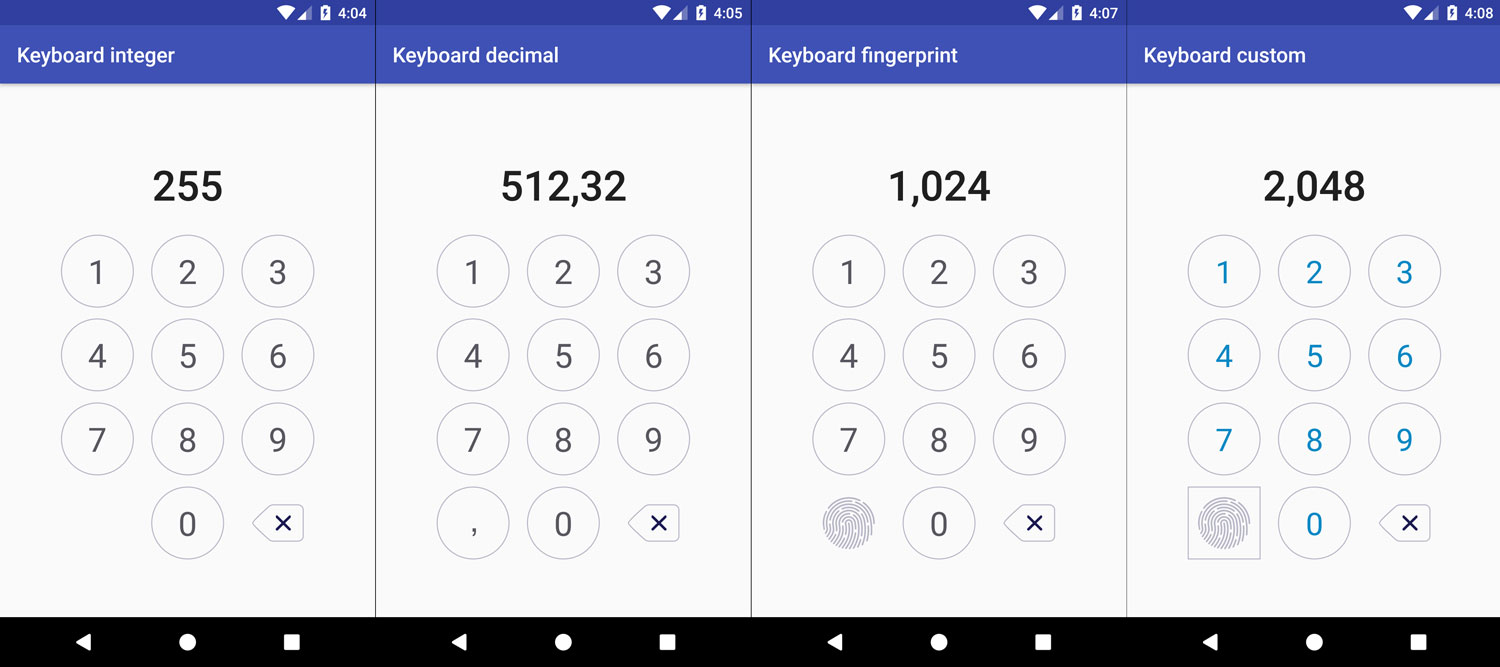
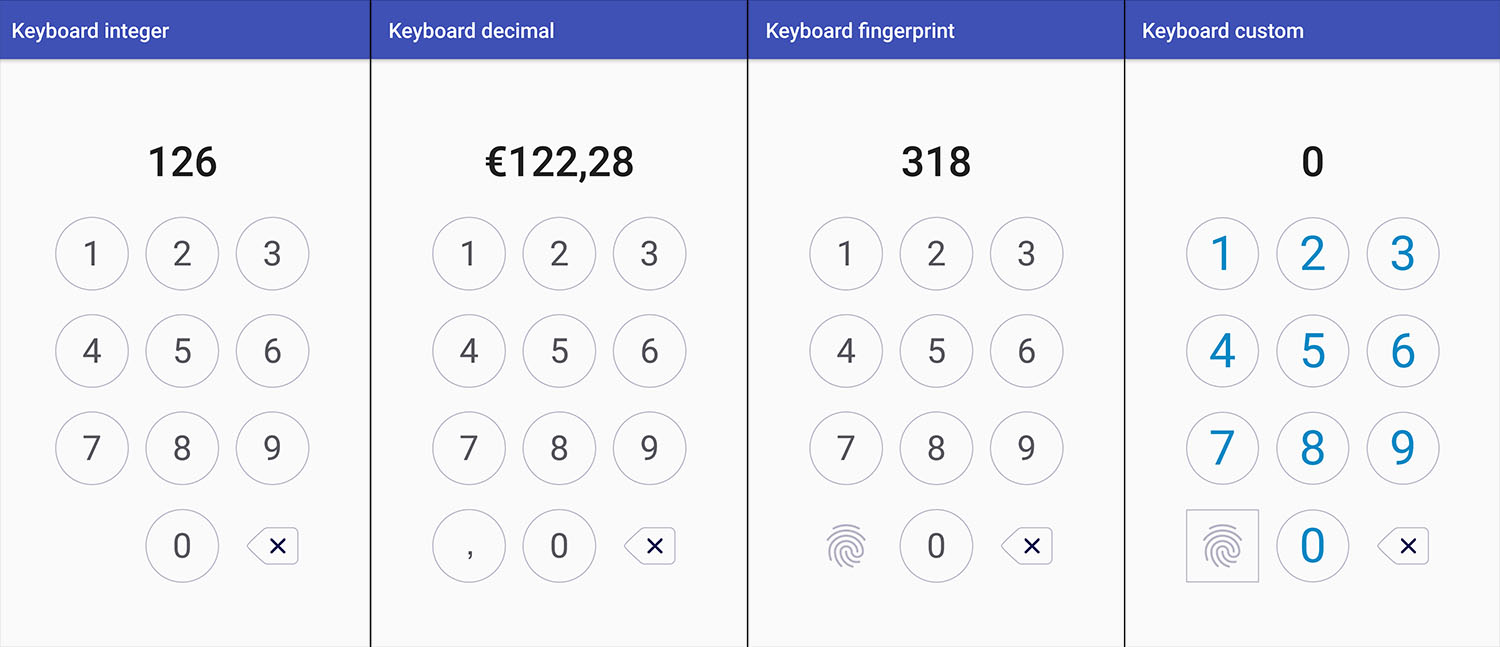
Use Autosizing TextViews #8

diff --git a/lib/src/main/java/com/davidmiguel/numberkeyboard/NumberKeyboard.java b/lib/src/main/java/com/davidmiguel/numberkeyboard/NumberKeyboard.java
@@ -27,9 +27,9 @@ import java.util.List;
 @SuppressWarnings("unused")
 public class NumberKeyboard extends GridLayout {
 
-    private static final int DEFAULT_KEY_WIDTH_DP = 70;
-    private static final int DEFAULT_KEY_HEIGHT_DP = 70;
-    private static final int DEFAULT_KEY_TEXT_SIZE_SP = 32;
+    private static final int DEFAULT_KEY_WIDTH_DP = -1; // match_parent
+    private static final int DEFAULT_KEY_HEIGHT_DP = -1; // match_parent
+    private static final int DEFAULT_KEY_PADDING_DP = 16;
 
     static {
         AppCompatDelegate.setCompatVectorFromResourcesEnabled(true);
@@ -39,10 +39,10 @@ public class NumberKeyboard extends GridLayout {
     private int keyWidth;
     @Dimension
     private int keyHeight;
+    @Dimension
+    private int keyPadding;
     @DrawableRes
     private int numberKeyBackground;
-    @Dimension
-    private int numberKeyTextSize;
     @ColorRes
     private int numberKeyTextColor;
     @DrawableRes
@@ -116,6 +116,9 @@ public class NumberKeyboard extends GridLayout {
      * Sets key width in px.
      */
     public void setKeyWidth(int px) {
+        if (px == DEFAULT_KEY_WIDTH_DP) {
+            return;
+        }
         for (TextView key : numericKeys) {
             key.getLayoutParams().width = px;
         }
@@ -128,6 +131,9 @@ public class NumberKeyboard extends GridLayout {
      * Sets key height in px.
      */
     public void setKeyHeight(int px) {
+        if (px == DEFAULT_KEY_HEIGHT_DP) {
+            return;
+        }
         for (TextView key : numericKeys) {
             key.getLayoutParams().height = px;
         }
@@ -137,20 +143,23 @@ public class NumberKeyboard extends GridLayout {
     }
 
     /**
+     * Sets key padding in px.
+     */
+    public void setKeyPadding(int px) {
+        for (TextView key : numericKeys) {
+            key.setPadding(px, px, px, px);
+            key.setCompoundDrawablePadding(-1 * px);
+        }
+        leftAuxBtn.setPadding(px, px, px, px);
+        rightAuxBtn.setPadding(px, px, px, px);
+    }
+
+    /**
      * Sets number keys background.
      */
     public void setNumberKeyBackground(@DrawableRes int background) {
         for (TextView key : numericKeys) {
             key.setBackground(ContextCompat.getDrawable(getContext(), background));
-        }
-    }
-
-    /**
-     * Sets number keys text size.
-     */
-    public void setNumberKeyTextSize(@Dimension int size) {
-        for (TextView key : numericKeys) {
-            key.setTextSize(TypedValue.COMPLEX_UNIT_PX, size);
         }
     }
 
@@ -213,16 +222,14 @@ public class NumberKeyboard extends GridLayout {
                 throw new IllegalArgumentException("keyboardType attribute is required.");
             }
             // Get key sizes
-            keyWidth = array.getLayoutDimension(R.styleable.NumberKeyboard_keyWidth,
-                    dpToPx(DEFAULT_KEY_WIDTH_DP));
-            keyHeight = array.getLayoutDimension(R.styleable.NumberKeyboard_keyHeight,
-                    dpToPx(DEFAULT_KEY_HEIGHT_DP));
+            keyWidth = array.getLayoutDimension(R.styleable.NumberKeyboard_keyWidth, DEFAULT_KEY_WIDTH_DP);
+            keyHeight = array.getLayoutDimension(R.styleable.NumberKeyboard_keyHeight, DEFAULT_KEY_HEIGHT_DP);
+            // Get key padding
+            keyPadding = array.getDimensionPixelSize(R.styleable.NumberKeyboard_keyPadding,
+                    dpToPx(DEFAULT_KEY_PADDING_DP));
             // Get number key background
             numberKeyBackground = array.getResourceId(R.styleable.NumberKeyboard_numberKeyBackground,
                     R.drawable.key_bg);
-            // Get number key text size
-            numberKeyTextSize = array.getDimensionPixelSize(R.styleable.NumberKeyboard_numberKeyTextSize,
-                    spToPx(DEFAULT_KEY_TEXT_SIZE_SP));
             // Get number key text color
             numberKeyTextColor = array.getResourceId(R.styleable.NumberKeyboard_numberKeyTextColor,
                     R.drawable.key_text_color);
@@ -299,8 +306,8 @@ public class NumberKeyboard extends GridLayout {
     private void setStyles() {
         setKeyWidth(keyWidth);
         setKeyHeight(keyHeight);
+        setKeyPadding(keyPadding);
         setNumberKeyBackground(numberKeyBackground);
-        setNumberKeyTextSize(numberKeyTextSize);
         setNumberKeyTextColor(numberKeyTextColor);
         setLeftAuxButtonIcon(leftAuxBtnIcon);
         setLeftAuxButtonBackground(leftAuxBtnBackground);
@@ -349,12 +356,5 @@ public class NumberKeyboard extends GridLayout {
      */
     public int dpToPx(float valueInDp) {
         return (int) TypedValue.applyDimension(TypedValue.COMPLEX_UNIT_DIP, valueInDp, getResources().getDisplayMetrics());
-    }
-
-    /**
-     * Utility method to convert sp to pixels.
-     */
-    public int spToPx(float valueInSp) {
-        return (int) TypedValue.applyDimension(TypedValue.COMPLEX_UNIT_SP, valueInSp, getResources().getDisplayMetrics());
     }
 }

diff --git a/lib/src/main/java/com/davidmiguel/numberkeyboard/SquareFrameLayout.java b/lib/src/main/java/com/davidmiguel/numberkeyboard/SquareFrameLayout.java
@@ -1,0 +1,70 @@
+/*
+ * Copyright (C) 2014 The Android Open Source Project
+ *
+ * Licensed under the Apache License, Version 2.0 (the "License");
+ * you may not use this file except in compliance with the License.
+ * You may obtain a copy of the License at
+ *
+ *      http://www.apache.org/licenses/LICENSE-2.0
+ *
+ * Unless required by applicable law or agreed to in writing, software
+ * distributed under the License is distributed on an "AS IS" BASIS,
+ * WITHOUT WARRANTIES OR CONDITIONS OF ANY KIND, either express or implied.
+ * See the License for the specific language governing permissions and
+ * limitations under the License.
+ */
+
+package com.davidmiguel.numberkeyboard;
+
+import android.content.Context;
+import android.util.AttributeSet;
+import android.widget.FrameLayout;
+
+/**
+ * {@link android.widget.FrameLayout} which forces itself to be laid out as square.
+ * https://developer.android.com/samples/ActivitySceneTransitionBasic/src/com.example.android.activityscenetransitionbasic/SquareFrameLayout.html#l26
+ */
+public class SquareFrameLayout extends FrameLayout {
+
+    public SquareFrameLayout(Context context) {
+        super(context);
+    }
+
+    public SquareFrameLayout(Context context, AttributeSet attrs) {
+        super(context, attrs);
+    }
+
+    public SquareFrameLayout(Context context, AttributeSet attrs, int defStyleAttr) {
+        super(context, attrs, defStyleAttr);
+    }
+
+    @Override
+    protected void onMeasure(int widthMeasureSpec, int heightMeasureSpec) {
+        final int widthSize = MeasureSpec.getSize(widthMeasureSpec);
+        final int heightSize = MeasureSpec.getSize(heightMeasureSpec);
+
+        if (widthSize == 0 && heightSize == 0) {
+            // If there are no constraints on size, let FrameLayout measure
+            super.onMeasure(widthMeasureSpec, heightMeasureSpec);
+
+            // Now use the smallest of the measured dimensions for both dimensions
+            final int minSize = Math.min(getMeasuredWidth(), getMeasuredHeight());
+            setMeasuredDimension(minSize, minSize);
+            return;
+        }
+
+        final int size;
+        if (widthSize == 0 || heightSize == 0) {
+            // If one of the dimensions has no restriction on size, set both dimensions to be the
+            // on that does
+            size = Math.max(widthSize, heightSize);
+        } else {
+            // Both dimensions have restrictions on size, set both dimensions to be the
+            // smallest of the two
+            size = Math.min(widthSize, heightSize);
+        }
+
+        final int newMeasureSpec = MeasureSpec.makeMeasureSpec(size, MeasureSpec.EXACTLY);
+        super.onMeasure(newMeasureSpec, newMeasureSpec);
+    }
+}

diff --git a/README.md b/README.md
@@ -25,9 +25,11 @@ Add the dependency:
 
 ```gradle
 dependencies {
-	compile 'com.github.davidmigloz:number-keyboard:1.0'
+	compile 'com.github.davidmigloz:number-keyboard:2.0'
 }
 ```
+
+[CHANGELOG](https://github.com/davidmigloz/number-keyboard/blob/master/CHANGELOG.md)
 
 #### Step 3
 
@@ -49,9 +51,10 @@ Use `NumberKeyboard` view in your layout:
   - `decimal`: numbers, comma and backspace keys.
   - `fingerprint`: numbers, fingerprint and backspace keys.
   - `custom`: numbers and defined auxiliary keys.
-- `keyboard:keyHeight="[dimension]"` (default: 70dp): key height.
+- `keyboard:keyWidth="[dimension]"` (default: `match_parent`): key width (`wrap_content` not allowed).      
+- `keyboard:keyHeight="[dimension]"` (default: `match_parent`): key height (`wrap_content` not allowed).
+- `keyboard:keyPadding="[dimension]"` (default: `16dp`): key padding.
 - `keyboard:numberKeyBackground="[reference]"` (default: circle): number keys background drawable.
-- `keyboard:numberKeyTextSize="[dimension]"` (default: 32sp): number keys text size.
 - `keyboard:numberKeyTextColor="[reference]"` (default: dark blue): number keys text color.
 - `keyboard:leftAuxBtnIcon="[reference]"` (default: none): if `keyboardType="custom"`, icon shown in left auxiliary button.
 - `keyboard:leftAuxBtnBackground="[reference]"` (default: none): if `keyboardType="custom"`, left auxiliary button background.
@@ -66,8 +69,8 @@ Use `NumberKeyboard` view in your layout:
 - `showRightAuxButton()`: shows right auxiliary button.
 - `setKeyWidth()`: sets key width in px.
 - `setKeyHeight()`: sets key height in px.
+- `setKeyPadding()`: sets key padding in px.
 - `setNumberKeyBackground()`: sets number keys background.
-- `setNumberKeyTextSize()`: sets number keys text size.
 - `setNumberKeyTextColor()`: sets number keys text color.
 - `setNumberKeyTypeface()`: sets number keys text typeface.
 - `setLeftAuxButtonIcon()`: sets left auxiliary button icon.
@@ -105,7 +108,7 @@ Pull request are very appreciated.
 
 ## License
 
-Copyright (c) 2017 David Miguel Lozano
+Copyright (c) 2018 David Miguel Lozano
 
 Licensed under the Apache License, Version 2.0 (the "License");
 you may not use this file except in compliance with the License.

diff --git a/CHANGELOG.md b/CHANGELOG.md
@@ -1,0 +1,31 @@
+# Change Log
+
+## Version 2.0  *(20/04/2018)*
+
+- Implement keys using Autosizing TextViews #8
+- Adding `keyPadding` attribute
+- Remove `numberKeyTextSize` attribute **(breaking change)**
+- Update support libraries to 27.1.1 #7
+- Update buildToolsVersion to 27.0.3 #7
+- Update gradle to 4.6 #7
+
+## Version 1.0  *(18/01/2018)*
+
+- Update support libraries to 27.0.2
+- Update buildToolsVersion to 26.0.2
+- Update gradle to 4.1
+- Improve decimal sample
+
+## Version 0.3  *(25/09/2017)*
+
+- Update support libraries to 26.1.0
+- Update buildToolsVersion to 26.0.1
+
+## Version 0.2  *(25/09/2017)*
+
+- Library crashes when running on API 19 #1
+- Update buildToolsVersion "25.0.3"
+
+## Version 0.1  *(20/07/2017)*
+
+- Initial release
